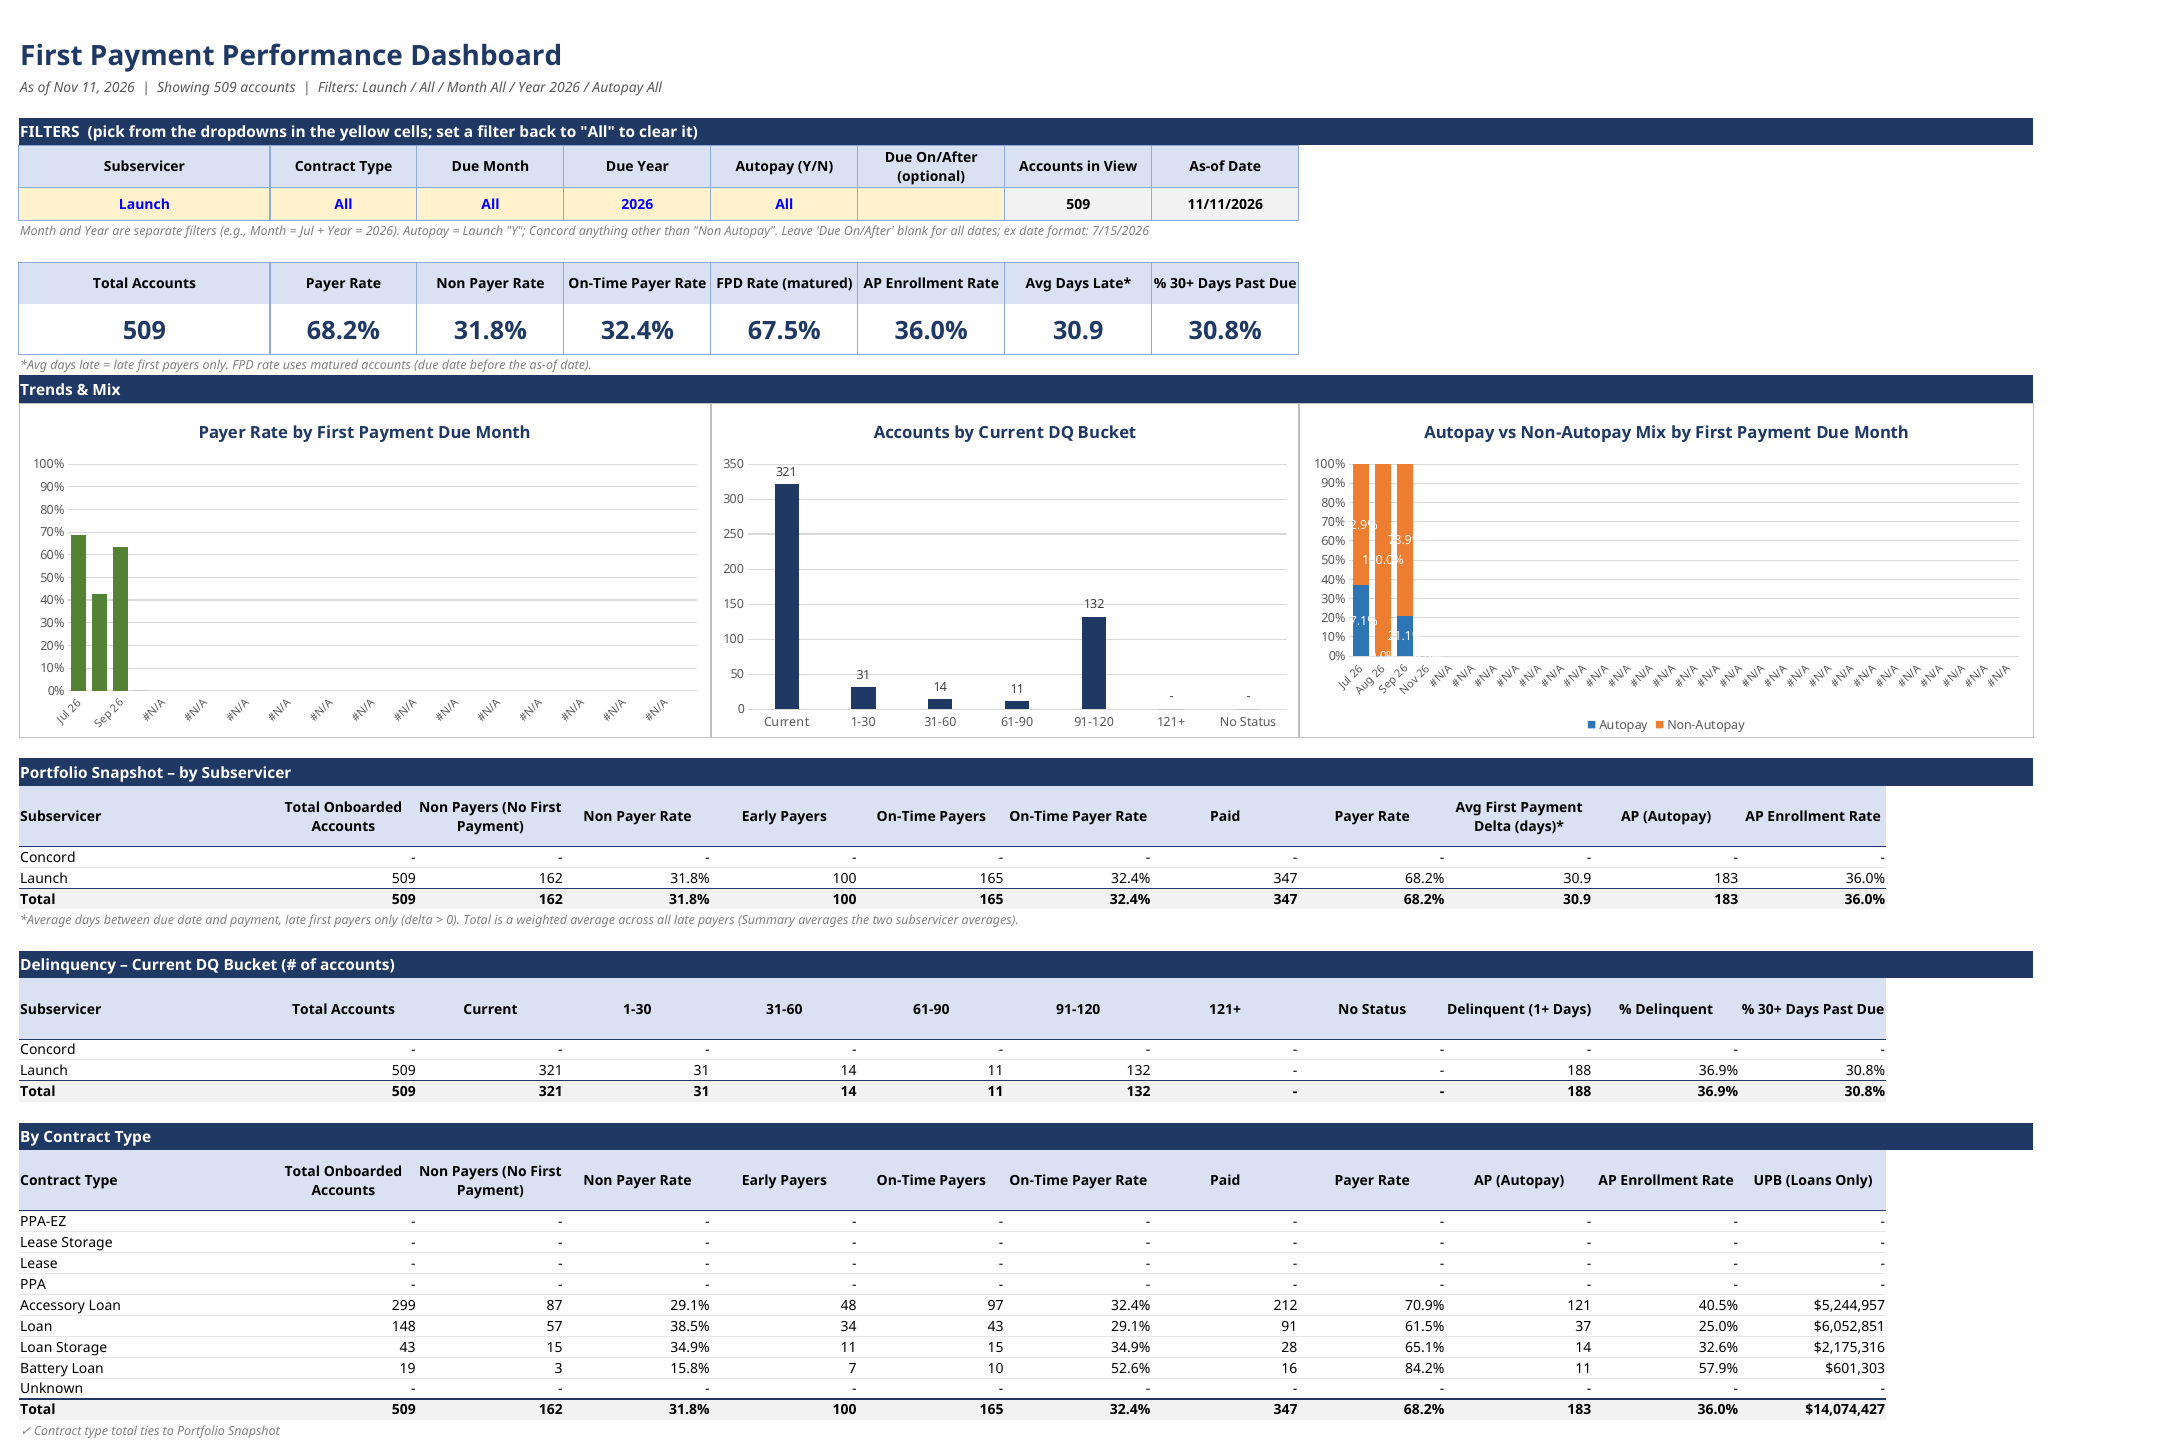
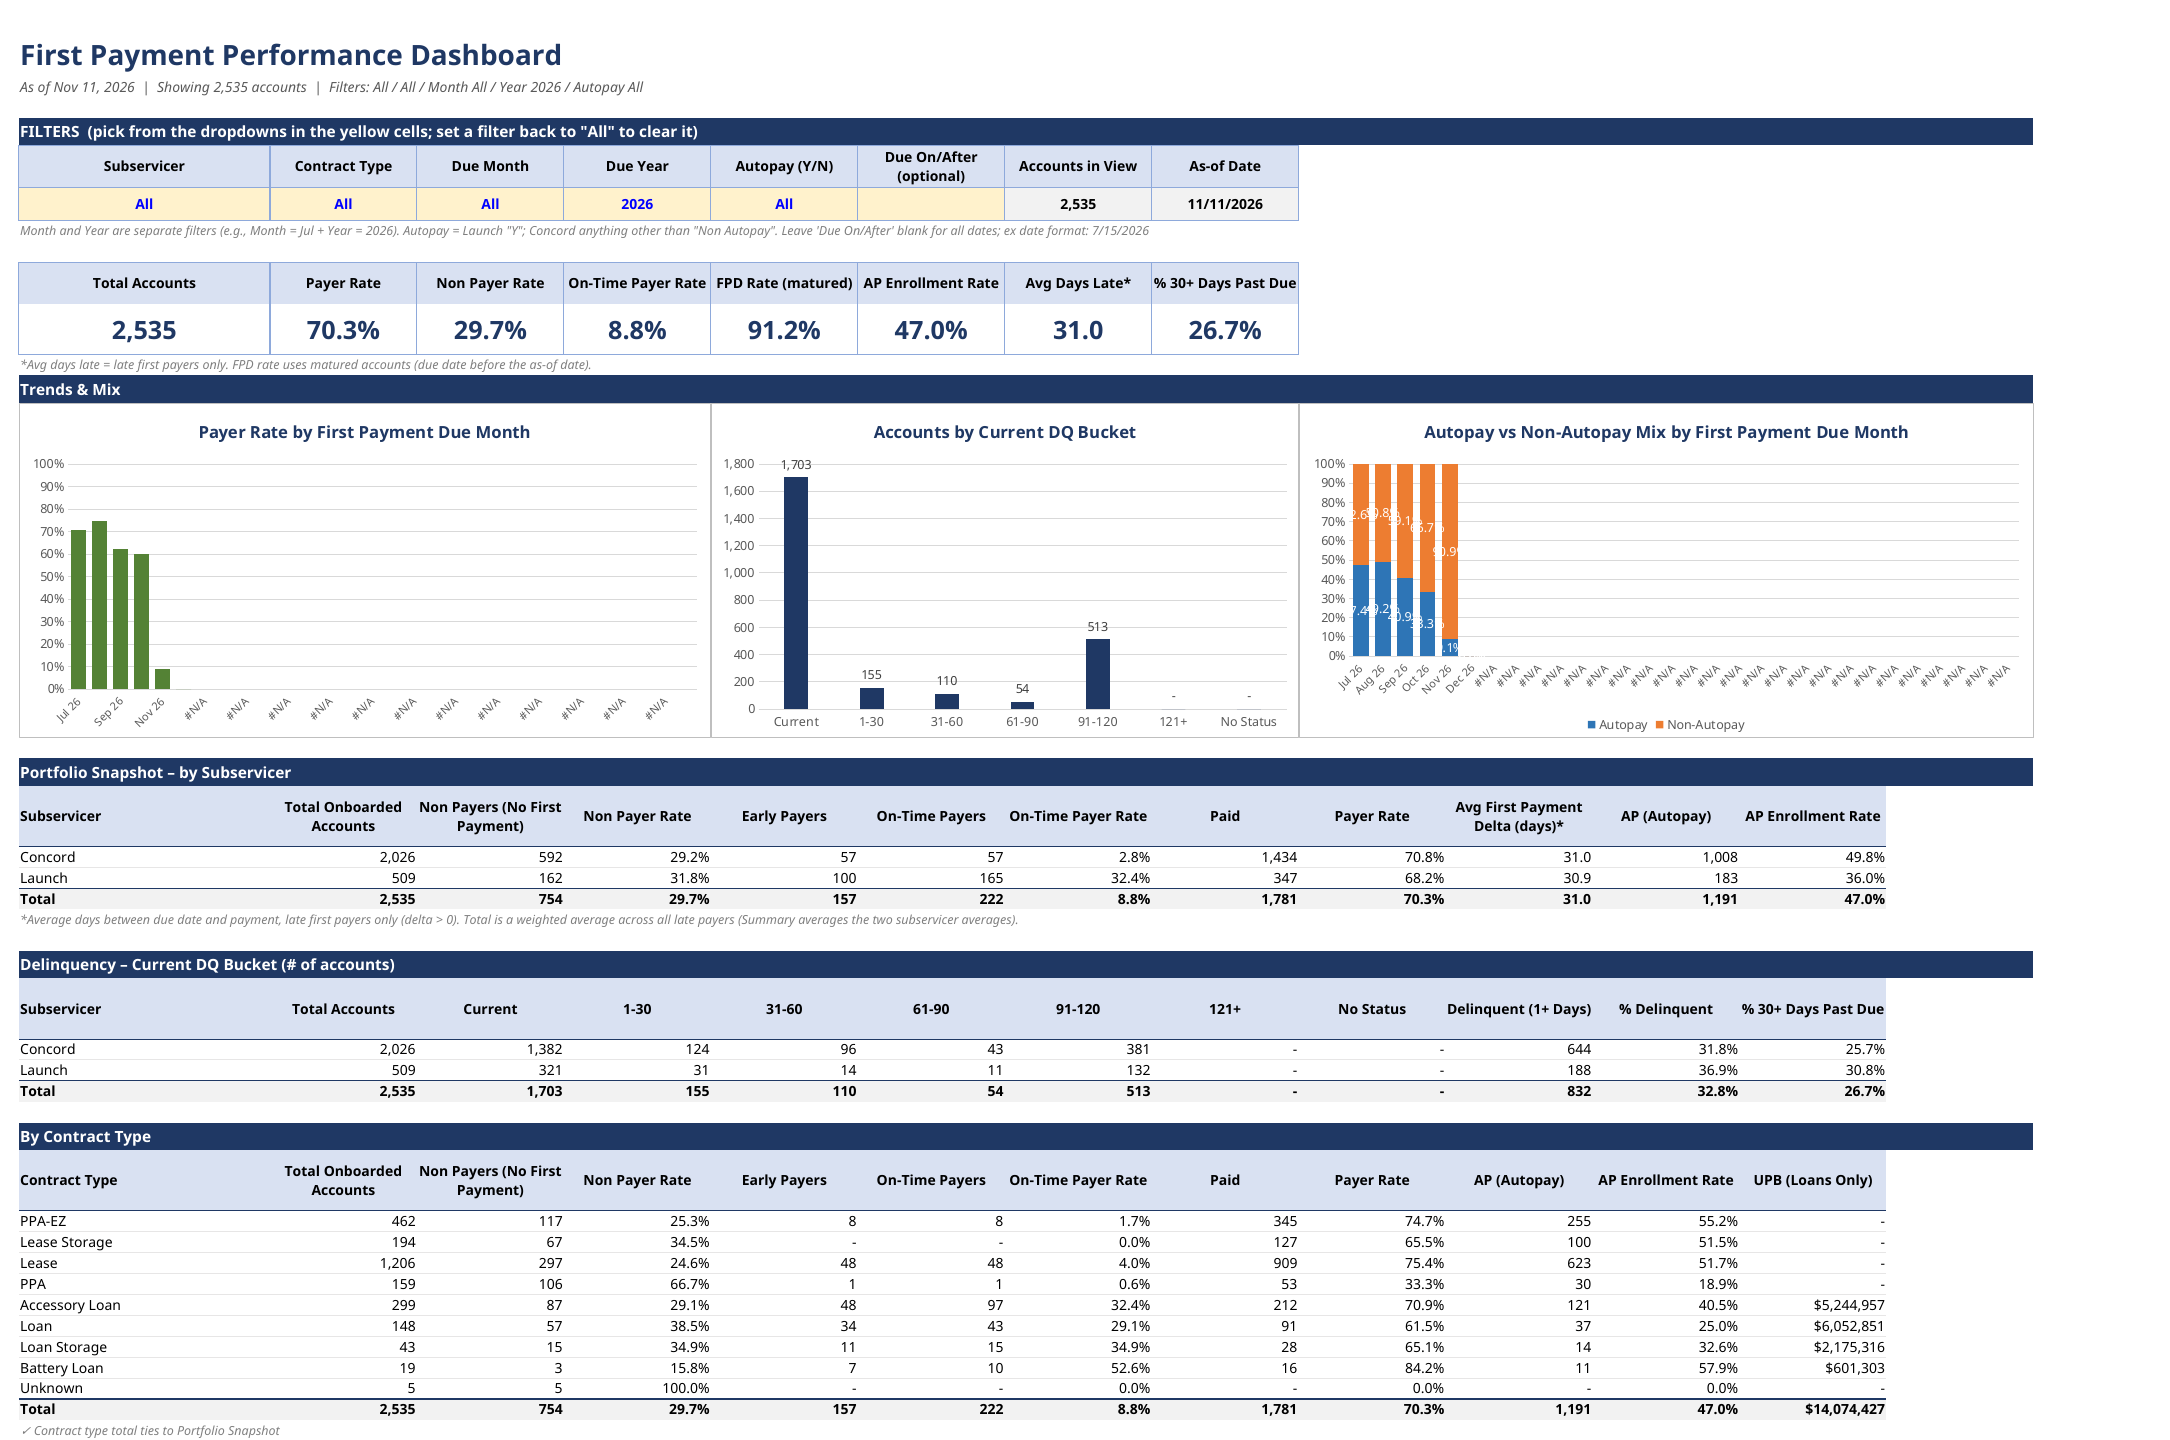
Update First Payment Default Dashboard screenshot to All subservicers

diff --git a/projects/first-payment-default-dashboard/case-study.md b/projects/first-payment-default-dashboard/case-study.md
@@ -31,8 +31,8 @@ On 2026-10-31 I reported the payer rate had moved from 23% to 32% across both su
 ### What the dashboard shows now (Nov 11, 2026)
 
 - **All completed WIP: 7,322 accounts — payer rate 83.2%, autopay enrollment 69.2%.** Batches due on or after Jul 15, 2026 (2,535 accounts): payer rate 70.3%, autopay enrollment 47.0%.
-- **Current view (Launch, 509 accounts): payer rate 68.2%, non-payer rate 31.8%, on-time payer rate 32.4%.** First-payment default rate (matured accounts) 67.5%; average days late among late first payers 30.9 days; 30.8% of accounts 30+ days past due.
-- **The autopay effect is visible in the numbers:** in the July 2026 batch (482 accounts), the first-payment default rate was 44.1% for autopay accounts vs. 82.2% for non-autopay accounts. Across all batches, 43.7% vs. 80.9%.
+- **Current view (All subservicers, 2,535 accounts): payer rate 70.3%, non-payer rate 29.7%, on-time payer rate 8.8%.** First-payment default rate (matured accounts) 91.2%; average days late among late first payers 31.0 days; 26.7% of accounts 30+ days past due. Concord accounts for 2,026 of the 2,535 (70.8% payer rate); Launch is 509 (68.2%).
+- **The autopay effect is visible in the numbers:** in the July 2026 batch (2,310 accounts), the first-payment default rate was 88.8% for autopay accounts vs. 93.4% for non-autopay accounts. Across all batches, 89.2% vs. 93.0%. The effect is much stronger within Launch alone, where the July batch showed 44.1% vs. 82.2% — the combined view is dominated by Concord's large July batch (1,828 of the 2,310 July accounts).
 
 ![First Payment Performance Dashboard](dashboard.png)
 
